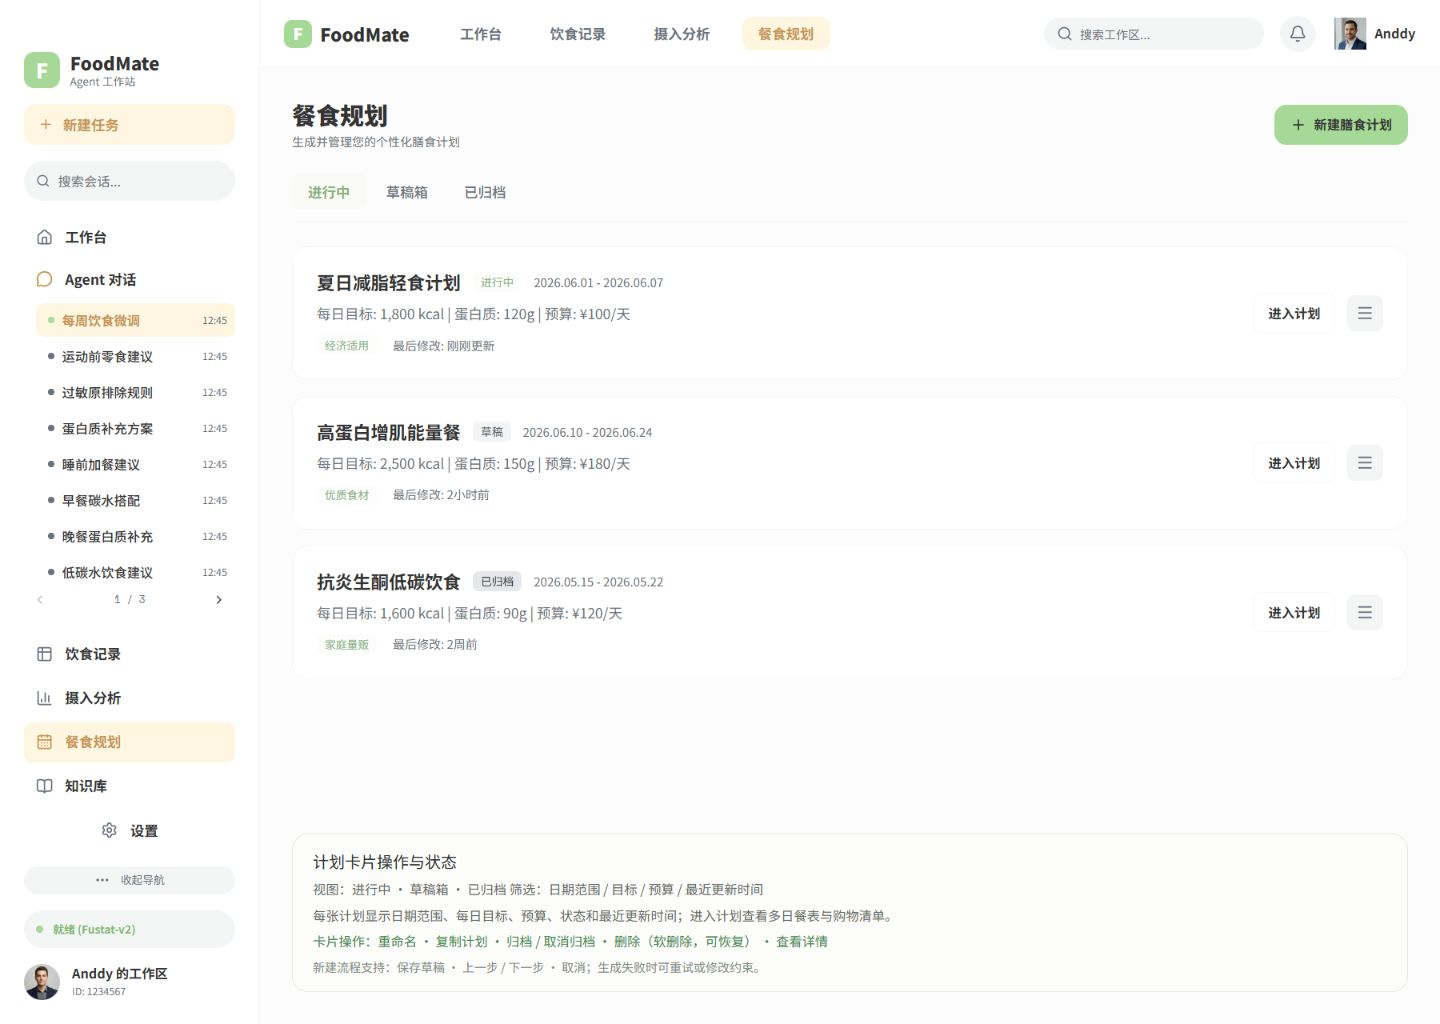
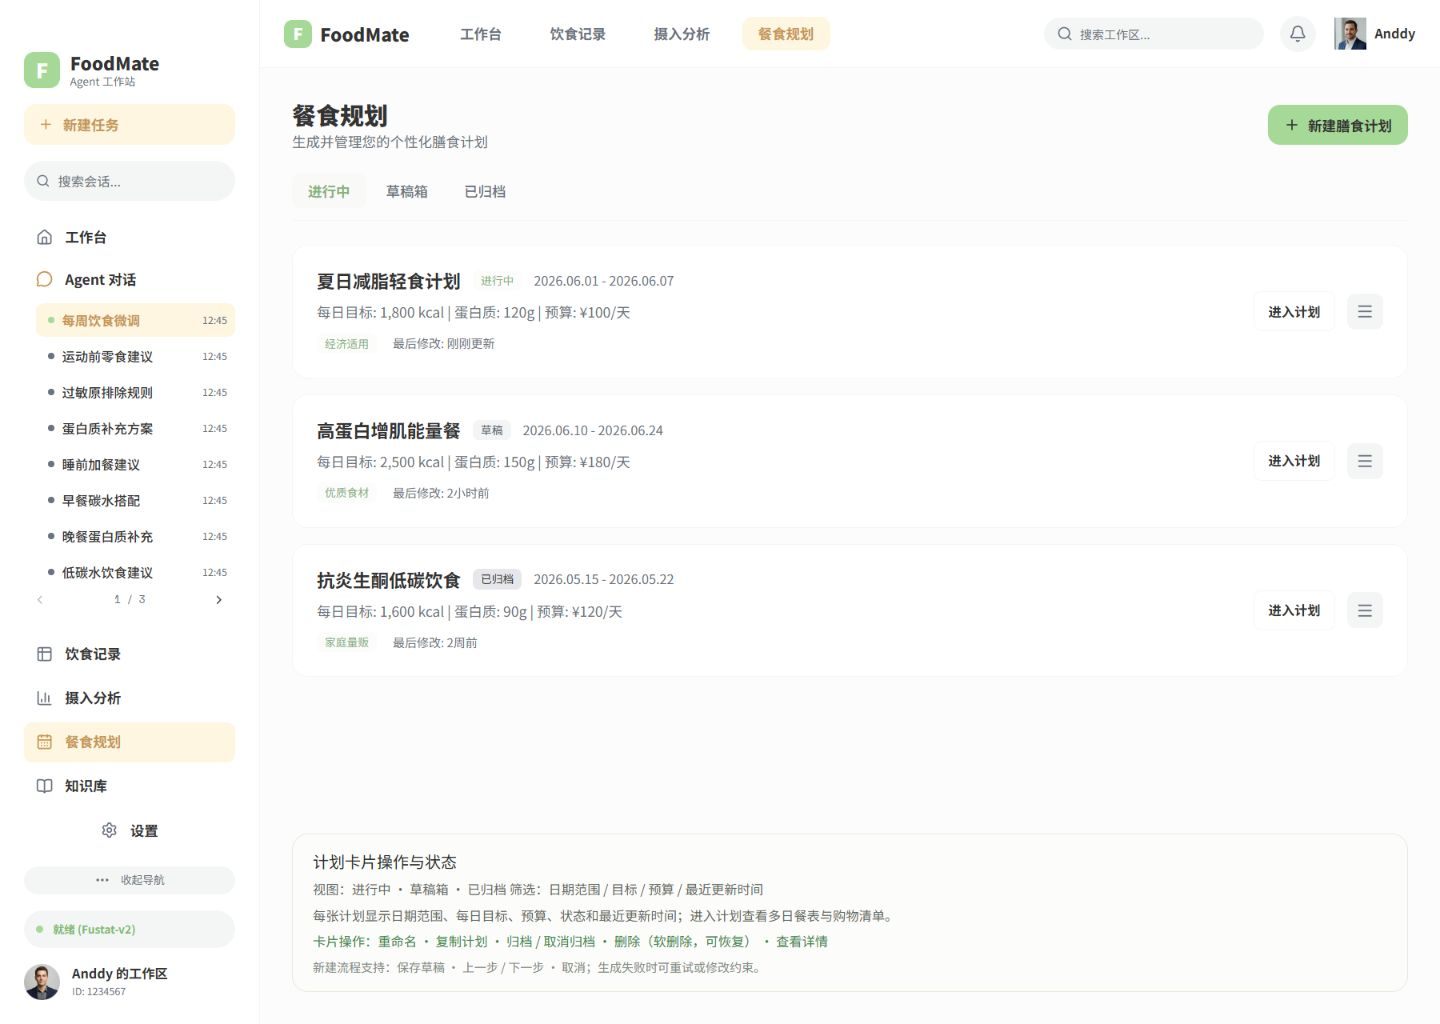
fix(餐食规划): 对齐列表排版尺寸

diff --git a/foodmate-ui/src/pages/PlanningPage/MealPlanningFlow.module.css b/foodmate-ui/src/pages/PlanningPage/MealPlanningFlow.module.css
@@ -87,6 +87,15 @@
   line-height: 1.4;
 }
 
+.listHeader p {
+  font-size: 14px;
+  line-height: 17px;
+}
+
+.listHeader > .flowButton {
+  font-size: 14px;
+}
+
 .listTabs {
   display: flex;
   align-items: center;
@@ -107,6 +116,7 @@
   font-family: 'Noto Sans SC', 'Microsoft YaHei', sans-serif;
   font-size: 14px;
   font-weight: 500;
+  line-height: 17px;
   cursor: pointer;
 }
 
@@ -208,6 +218,11 @@
   font-family: 'Noto Sans SC', 'Microsoft YaHei', sans-serif;
   font-size: 12px;
   line-height: 1.3;
+}
+
+.planDate {
+  font-size: 13px;
+  line-height: 17px;
 }
 
 .planListCard p {

diff --git a/docxs/功能实现说明/Figma前端像素级验收报告.md b/docxs/功能实现说明/Figma前端像素级验收报告.md
@@ -123,7 +123,7 @@ Figma Design 页共有 105 张顶层画板。本轮已为 105 张画板建立独
 | 冲突解决 | `692:3375` | `/planning?state=conflict` | `meal-plan-conflict-figma.png` | `meal-plan-conflict-browser-stable-rgba.png` | 37.28% | 25.12 | `DIFF_REVIEW` |
 | 购物清单 | `692:3569` | `/planning?state=shopping-list` | `meal-plan-shopping-list-figma.png` | `meal-plan-shopping-list-browser-stable-rgba.png` | 24.35% | 17.23 | `DIFF_REVIEW` |
 | 生成中 | `692:3746` | `/planning?state=generating` | `meal-plan-generating-figma.png` | `meal-plan-generating-browser-stable-rgba.png` | 13.69% | 16.84 | `DIFF_REVIEW` |
-| 计划列表 | `692:2662` | `/planning?state=list` | `meal-plan-list-figma.png` | `meal-plan-list-browser-current-rgba.png` | 28.3485% | 19.37 | `DIFF_REVIEW` |
+| 计划列表 | `692:2662` | `/planning?state=list` | `meal-plan-list-figma.png` | `meal-plan-list-browser-current-rgba.png` | 27.9107% | 18.96 | `DIFF_REVIEW` |
 
 浏览器 smoke 已实际确认：向导步骤推进和取消生成、冲突方案应用、购物清单初始采购数量及导出反馈均可操作；七个入口均无页面级横向溢出。流程 fixture 只复现前端设计状态，不代表真实餐食生成、冲突解决、购物清单持久化或异步任务后端闭环完成。
 
@@ -508,6 +508,14 @@ Figma Design 页共有 105 张顶层画板。本轮已为 105 张画板建立独
 - [x] `/planning?state=list` 浏览器实测顶部头像 `src` 为 `/assets/figma/planning/meal-plan-list-topbar-avatar.png`，图片加载完成；Figma 设计稿未修改，业务默认头像资源未改写。
 - [x] 当前浏览器 RGBA 证据为 `foodmate-ui/.qa/figma-pixel-acceptance/meal-plan-list-browser-current-rgba.png`，PNG diff 为 `28.3485% / MAE 3.9456 / RMSE 19.3731`，保持 `DIFF_REVIEW`。
 - [ ] 卡片几何、内容密度、字体和图标光栅化仍需继续验收；iconfont 实体资源继续为 `BLOCKED`。
+
+## 54. 2026-08-23 餐食规划列表排版尺寸复核
+
+- [x] `/planning?state=list` 继续以 Figma 节点 `692:2662` 和 `1440×1024` 为唯一视觉依据，收紧列表副标题、新建按钮、Tab、计划日期的字号和行高。
+- [x] 最新浏览器截图已完成字体加载和同尺寸转换，证据为 `foodmate-ui/.qa/figma-pixel-acceptance/meal-plan-list-browser-current-rgba.png`；页面几何检查保持通过，未发现横向溢出。
+- [x] `scripts/png-diff.mjs` 最新结果：`differentPixels=411560`、差异比例 `27.9107%`、`MAE=3.8105`、`RMSE=18.9605`、最大通道差异 `255`；机器结果锚点为 `figma-105-diff-results.json#meal-plan-list`。
+- [x] 排版调整后差异指标相较头像资源版本有所下降，但仍存在卡片几何、内容密度、字体和图标光栅化差异。
+- [ ] 该画板继续保持 `DIFF_REVIEW`，不能因局部指标改善标记为像素级 `PASS`；iconfont 实体资源继续为 `BLOCKED`。
 
 ## 60. 2026-08-23 Intake Analysis 当前版本验收证据更新
 

diff --git a/docxs/实现/前端实现指南.md b/docxs/实现/前端实现指南.md
@@ -1043,3 +1043,10 @@ Agent 空态以 Figma `687:219` 为唯一视觉来源，目标画板为 `1440×1
 - [x] `/planning?state=list` fixture 仅切换顶部头像资源，业务默认头像规则不变；浏览器实际加载该资源，计划卡数量为 `3`，视口宽度为 `1440`。
 - [x] 当前同尺寸 PNG diff 为 `28.3485% / MAE 3.9456 / RMSE 19.3731`，继续登记为 `DIFF_REVIEW`，不因局部资源对齐标记整页 PASS。
 - [ ] 本项不代表全量页面头像资源和 shadcn 迁移全部完成；iconfont 实体资源继续为 `BLOCKED`。
+
+## 55. 2026-08-23 餐食规划列表排版尺寸对齐
+
+- [x] 依据 Figma 节点 `692:2662` 调整 `/planning?state=list` 列表副标题、新建按钮、Tab 和计划日期的字号与行高；不修改 Figma 设计稿，也不改变业务状态圆点。
+- [x] 浏览器截图已重新转换为 RGBA 并完成同尺寸比较，视口为 `1440×1024`，页面无横向溢出；最新证据为 `foodmate-ui/.qa/figma-pixel-acceptance/meal-plan-list-browser-current-rgba.png`。
+- [x] 最新 PNG diff 为 `27.9107% / MAE 3.8105 / RMSE 18.9605`，完整结果登记在 `foodmate-ui/.qa/figma-pixel-acceptance/meal-plan-list-current-diff.json` 和 `figma-105-diff-results.json#meal-plan-list`。
+- [ ] 该项只收口列表排版尺寸，整页仍为 `DIFF_REVIEW`；全量 shadcn 迁移和 iconfont 实体资源登记仍未完成，iconfont 继续为 `BLOCKED`。
